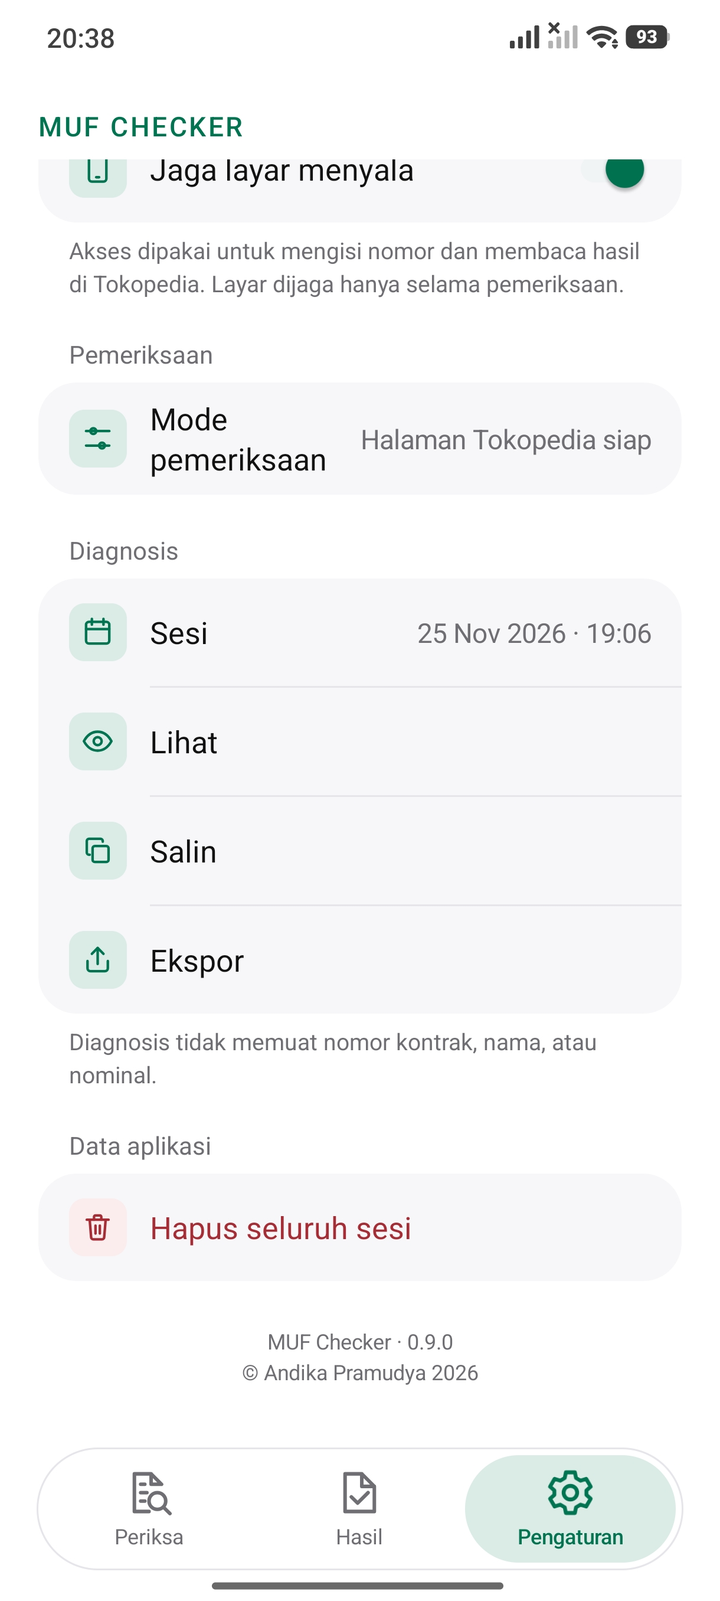
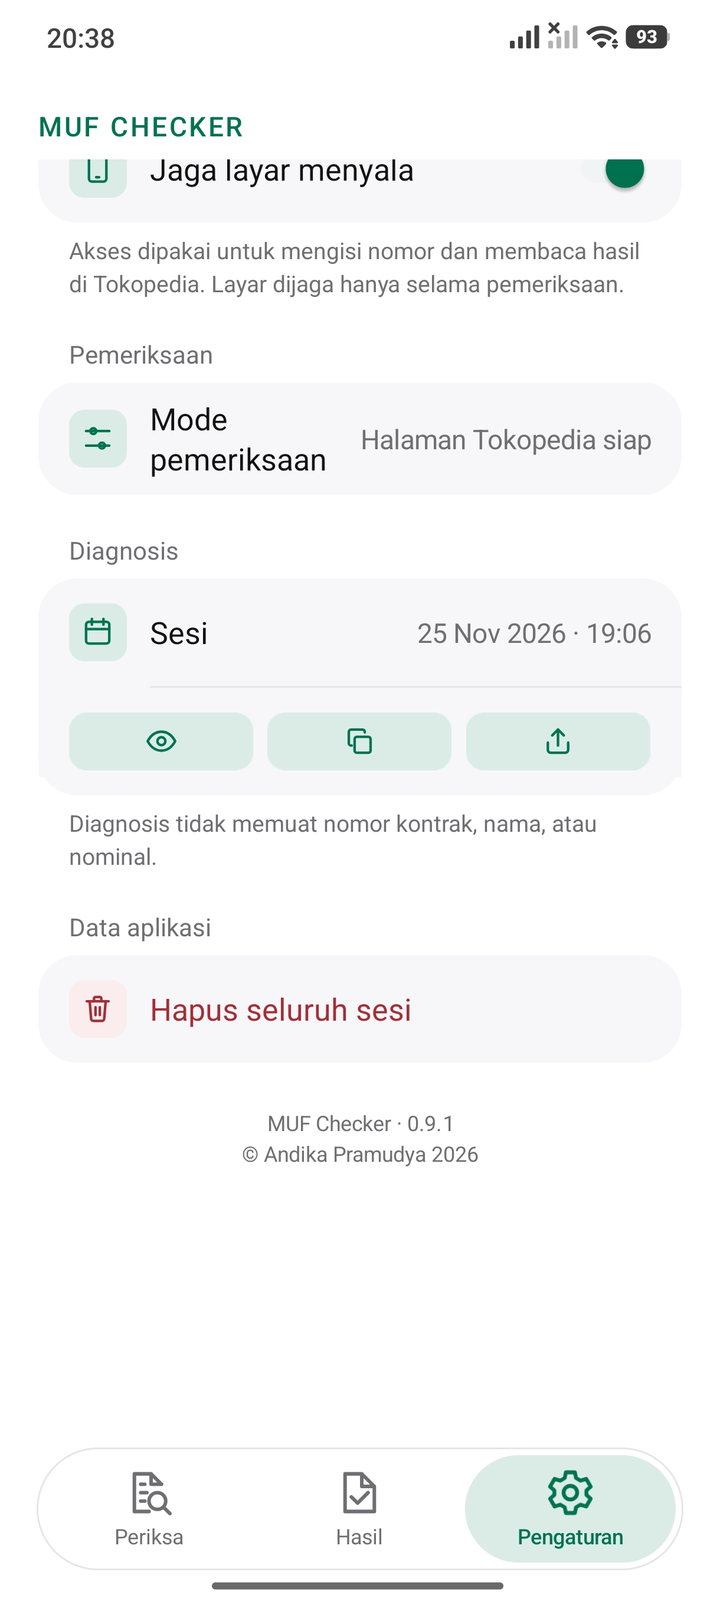
Tampilkan kartu Diagnosis 0.9.1 pada screenshot Pengaturan

diff --git a/README.md b/README.md
@@ -29,17 +29,17 @@
     <td align="center"><img src="docs/screenshots/periksa.png" width="200" alt="Halaman Periksa: periode, daftar nomor kontrak, dan progres aktivitas" /></td>
     <td align="center"><img src="docs/screenshots/hasil.png" width="200" alt="Halaman Hasil: ringkasan Sudah, Belum, Error, pencarian, filter, dan tabel status" /></td>
     <td align="center"><img src="docs/screenshots/rincian-kontrak.png" width="200" alt="Rincian kontrak: status, jatuh tempo, periode, angsuran, dan cicilan" /></td>
-    <td align="center"><img src="docs/screenshots/pengaturan.png" width="200" alt="Halaman Pengaturan: akses, mode pemeriksaan, diagnosis, dan data aplikasi" /></td>
+    <td align="center"><img src="docs/screenshots/pengaturan.png" width="200" alt="Halaman Pengaturan: kartu Diagnosis dengan baris Sesi dan tombol ikon Lihat, Salin, Ekspor" /></td>
   </tr>
   <tr>
     <td align="center"><b>Periksa</b><br /><sub>Periode dan daftar kontrak</sub></td>
     <td align="center"><b>Hasil</b><br /><sub>Ringkasan, cari, dan filter</sub></td>
     <td align="center"><b>Rincian kontrak</b><br /><sub>Detail per kontrak</sub></td>
-    <td align="center"><b>Pengaturan</b><br /><sub>Akses, mode, diagnosis</sub></td>
+    <td align="center"><b>Pengaturan</b><br /><sub>Diagnosis ringkas</sub></td>
   </tr>
 </table>
 
-<p align="center"><sub>Diuji pada Poco X7 (Xiaomi 24095PCADG) · Android 16 / HyperOS · Tokopedia 45.4.5. Nomor kontrak, nama, dan nominal pada gambar adalah data contoh yang telah disamarkan.</sub></p>
+<p align="center"><sub>Diuji pada Poco X7 (Xiaomi 24095PCADG) · Android 16 / HyperOS · Tokopedia 45.4.5. Nomor kontrak, nama, dan nominal pada gambar adalah data contoh yang telah disamarkan. Gambar Pengaturan menampilkan kartu Diagnosis versi 0.9.1.</sub></p>
 
 > [!IMPORTANT]
 > Hasil MUF Checker adalah **indikasi operasional**, bukan bukti transaksi atau konfirmasi pembayaran resmi dari MUF maupun Tokopedia. Aplikasi ini adalah alat bantu internal dan **bukan** produk resmi keduanya. Gunakan hanya untuk nomor kontrak yang memang menjadi kewenangan Anda.
@@ -123,7 +123,7 @@ Sebelum memeriksa banyak kontrak, coba dulu **lima kontrak yang statusnya sudah 
 | --- | --- |
 | Akses | Status Aksesibilitas dan **Jaga layar menyala** (layar hanya dijaga selama pemeriksaan). |
 | Pemeriksaan | **Mode pemeriksaan**: *Halaman Tokopedia siap* (bawaan) atau melalui tautan MUF. |
-| Diagnosis | Pilih **Sesi**, lalu **Lihat**, **Salin**, atau **Ekspor** laporan diagnosis `.txt`. Ekspor sesi aktif memerlukan Jeda terlebih dahulu. |
+| Diagnosis | Ketuk baris **Sesi** untuk memilih sesi. Tiga tombol ikon di bawahnya: 👁 **Lihat**, ⧉ **Salin**, dan ⇧ **Ekspor** laporan diagnosis `.txt` (tekan lama untuk melihat namanya). Ekspor sesi aktif memerlukan Jeda terlebih dahulu. |
 | Data aplikasi | **Hapus seluruh sesi** dari perangkat. |
 </details>
 
